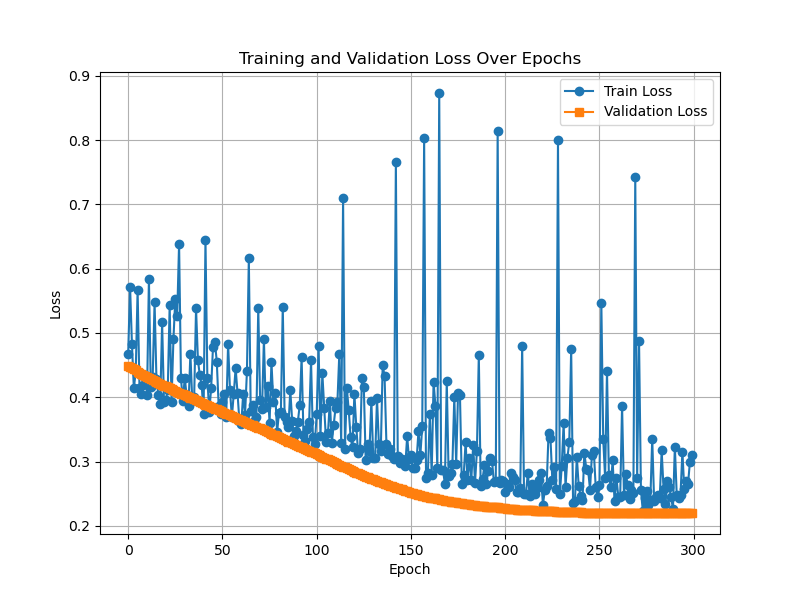
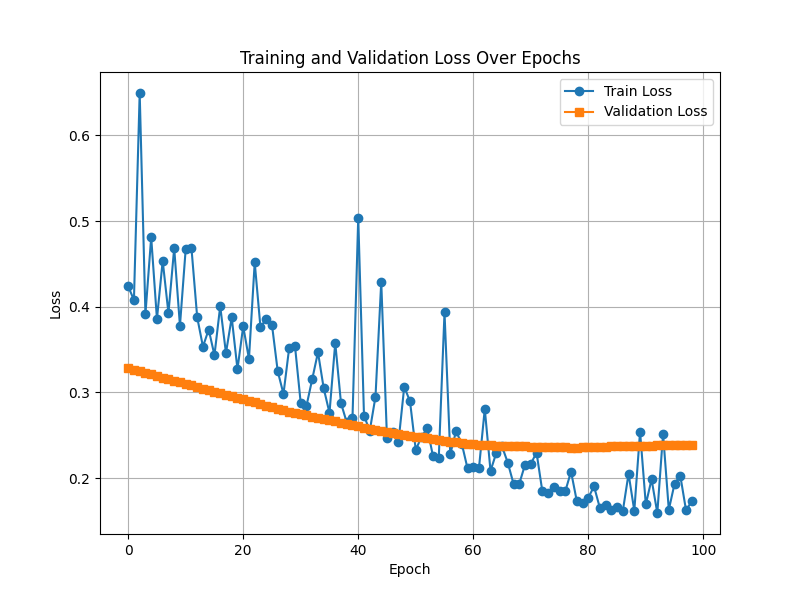
update train and model

diff --git a/models/solar_time_model_tiny.py b/models/solar_time_model_tiny.py
@@ -10,23 +10,21 @@ class TinyMLP(nn.Module):
         """
         super(TinyMLP, self).__init__()
 
-        # Layer 1: Input -> Hidden (24 -> 16)
+        # Layer 1: Input -> Hidden (input_dim -> 32)
         self.fc1 = nn.Sequential(
-            nn.Linear(input_dim, 16),   # Input: (batch_size, 24), Output: (batch_size, 16)
-            nn.LayerNorm(16),
+            nn.Linear(input_dim, 32),   # Input: (batch_size, input_dim), Output: (batch_size, 32)
             nn.ReLU(),
-            nn.Dropout(0.2)             # Prevent overfitting
+            nn.LayerNorm(32)
         )
 
-        # Layer 2: Hidden -> Hidden (16 -> 8)
+        # Layer 2: Hidden -> Hidden (32 -> 16)
         self.fc2 = nn.Sequential(
-            nn.Linear(16, 8),           # Output: (batch_size, 8)
-            nn.ReLU(),
-            nn.Dropout(0.1)
+            nn.Linear(32, 16),           # Output: (batch_size, 16)
+            nn.ReLU()
         )
-
+        
         # Output layer: Hidden -> Output (8 -> 1)
-        self.out = nn.Linear(8, 1)      # Output: (batch_size, 1) — for regression
+        self.out = nn.Linear(16, 1)      # Output: (batch_size, 1) — for regression
 
     def forward(self, x: torch.Tensor) -> torch.Tensor:
         """

diff --git a/exp/train.py b/exp/train.py
@@ -9,6 +9,7 @@ matplotlib.use("Agg")
 import matplotlib.pyplot as plt
 from sklearn.model_selection import train_test_split
 import numpy as np
+import seaborn as sns
 
 sys.path.append(os.path.abspath(os.path.join(os.path.dirname(__file__), "..")))
 
@@ -144,8 +145,6 @@ plt.savefig("checkpoints/loss_curve.png")
 
 print("Training complete. Best model saved to 'checkpoints/best_model.pth'")
 
-import seaborn as sns
-
 def plot_predictions(model, X_tensor, y_tensor, scaler, save_path="checkpoints/pred_vs_actual.png"):
     model.eval()
     with torch.no_grad():
@@ -165,3 +164,6 @@ def plot_predictions(model, X_tensor, y_tensor, scaler, save_path="checkpoints/p
     plt.grid(True)
     plt.savefig(save_path)
     print(f"Prediction plot saved to {save_path}")
+    
+plot_predictions(model, X_val, y_val, y_scaler)
+
